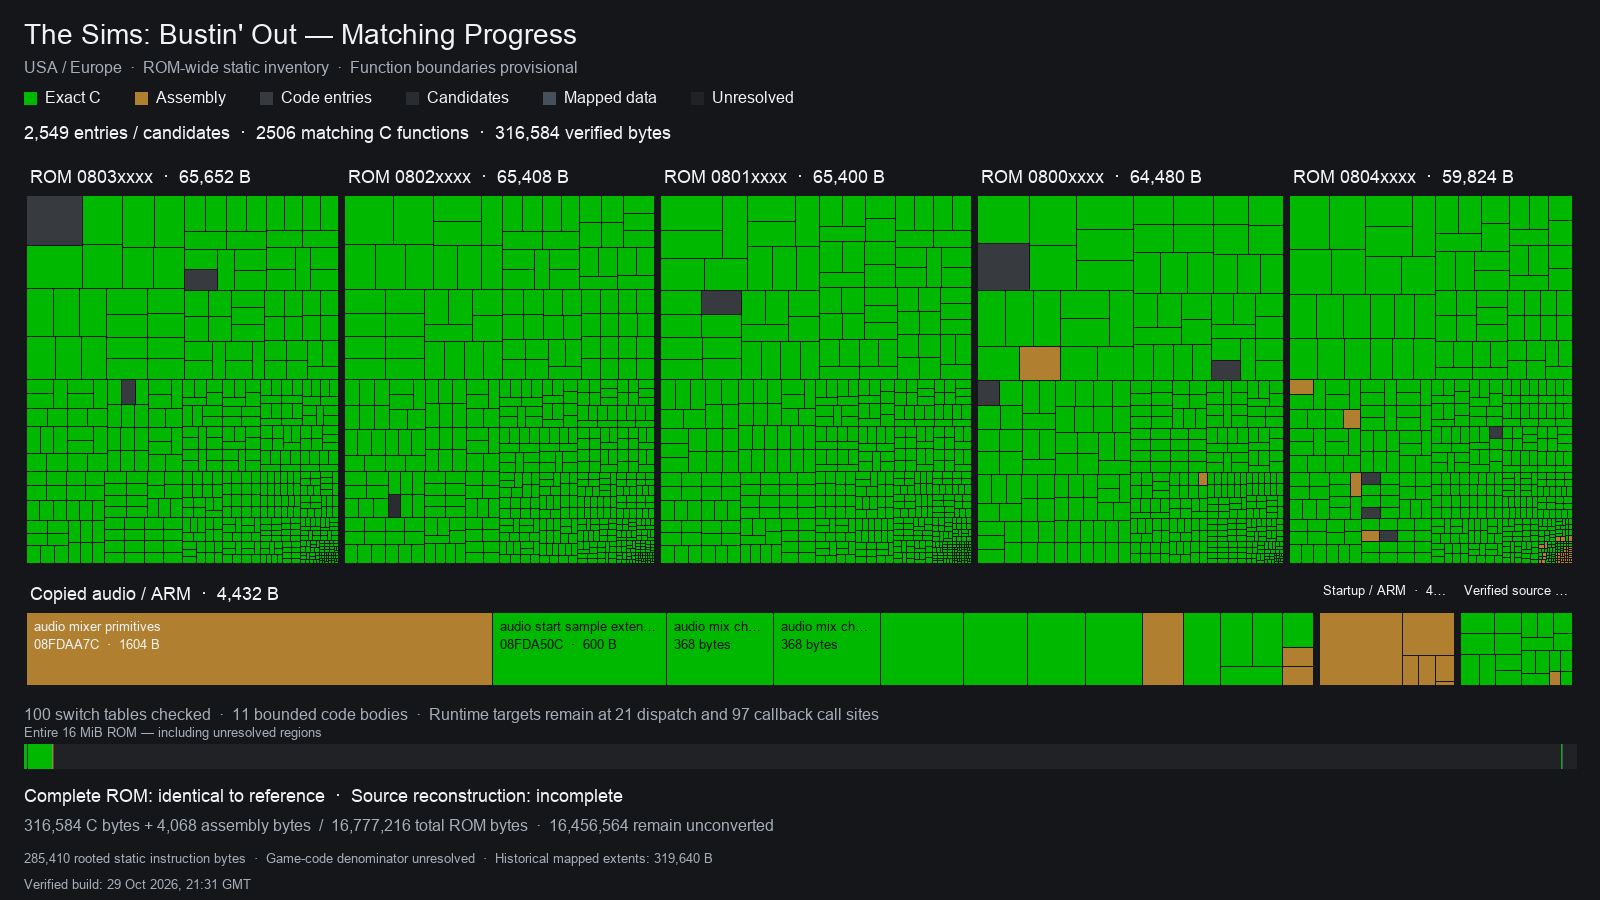
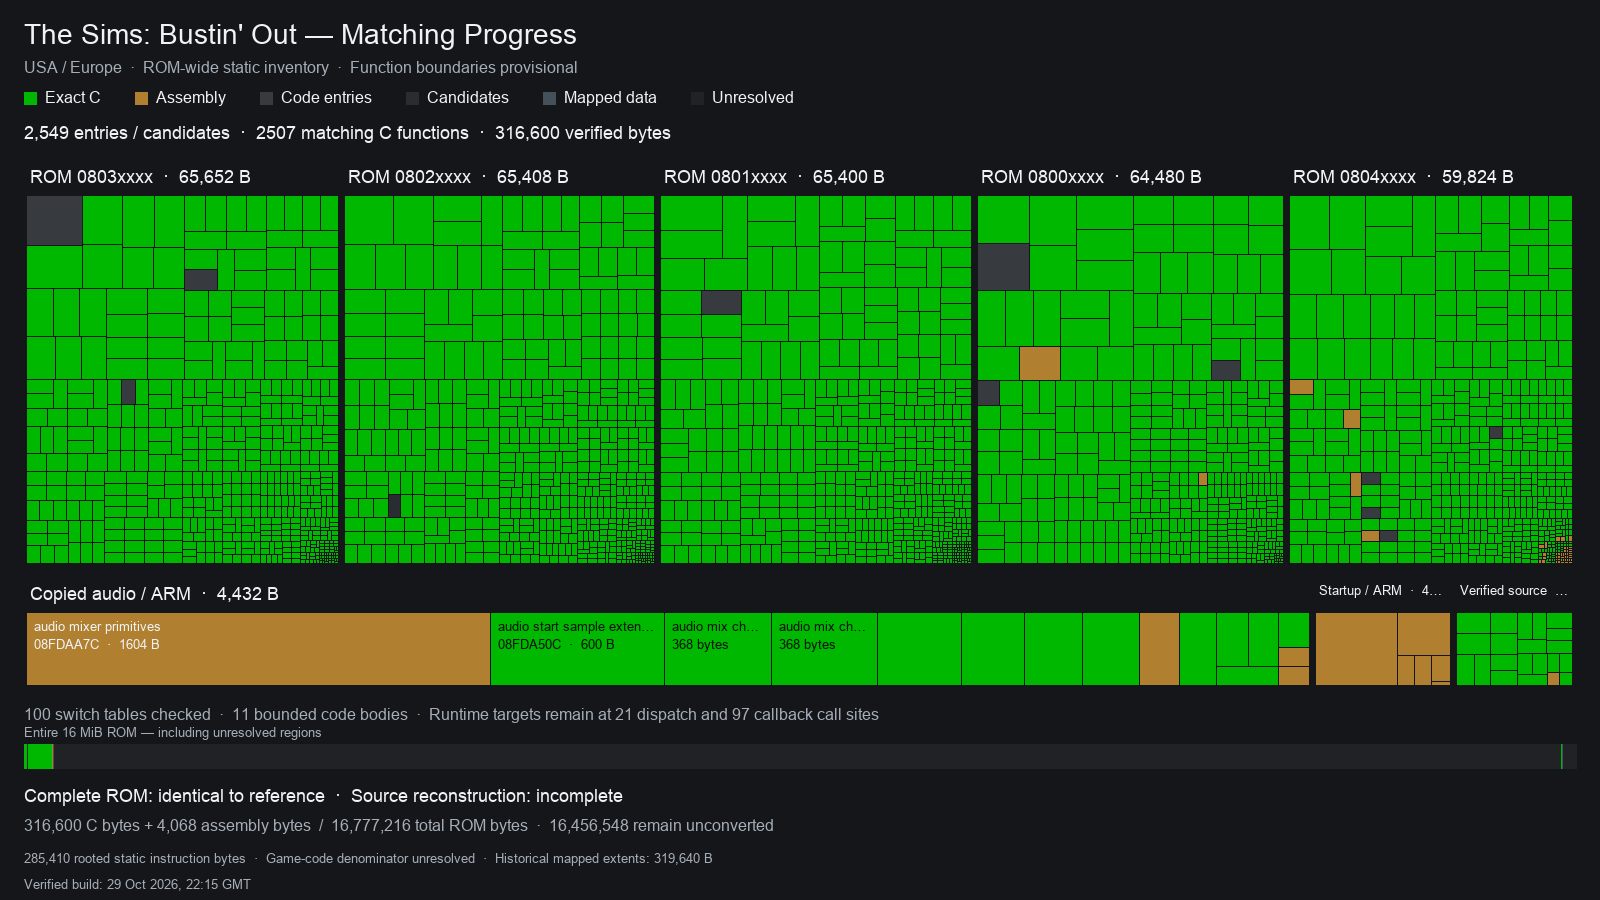
Reconstruct unrooted sequence header pair reader
Compile the cached sequence pointer and ordered byte reads into the exact
16-byte body. Preserve unknown header meanings and unqualified incoming entry.

Validate 2562 component/control pairs, original whole-ROM equality and the
rejected ROM control; refresh progress and pass 447 tooling tests.

diff --git a/src/frame/frame_read_sequence_header_pair.c b/src/frame/frame_read_sequence_header_pair.c
@@ -1,0 +1,10 @@
+#include "frame_tick.h"
+
+void frame_read_sequence_header_pair(struct FrameObject *base,
+                                                  struct FramePoint *point)
+{
+    struct FrameTickObject *object = (struct FrameTickObject *)base;
+    struct FrameSpriteSequence *sequence = object->resource->sequence;
+    point->x = sequence->unknown_00[0];
+    point->y = sequence->unknown_00[1];
+}
